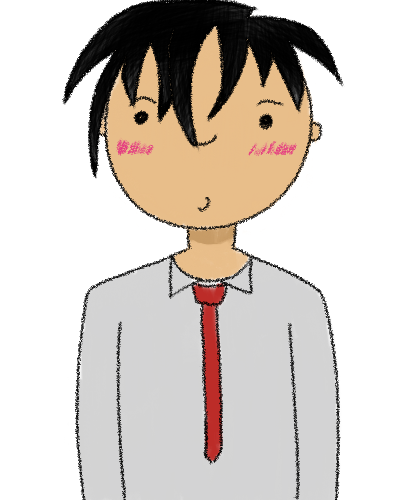
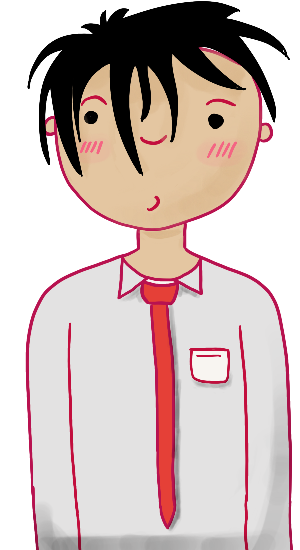
Added improved gryphon
Added actual linework and resized canvas to 300 x 550 rather than 400 x 500

diff --git a/src/chapter.js b/src/chapter.js
@@ -3,7 +3,7 @@ const timeout = time => new Promise(resolve => setTimeout(resolve, time));
 class Chapter {
   static CHARACTER_POSITIONS = [
     [30, 130, 350, 400],
-    [480, 130, 350, 400]
+    [480, 130, 300, 550]
   ];
 
   constructor({ file, text_ui, characters, backgrounds }) {
